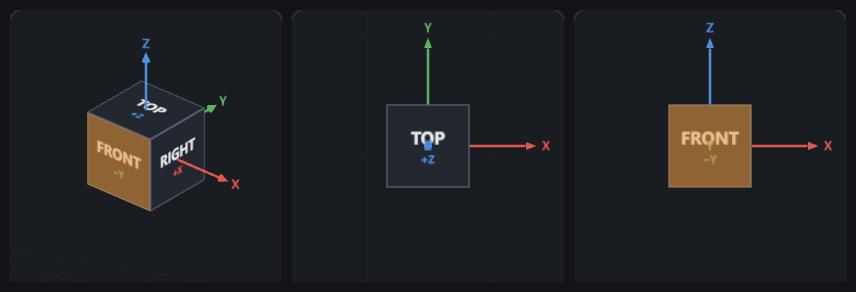
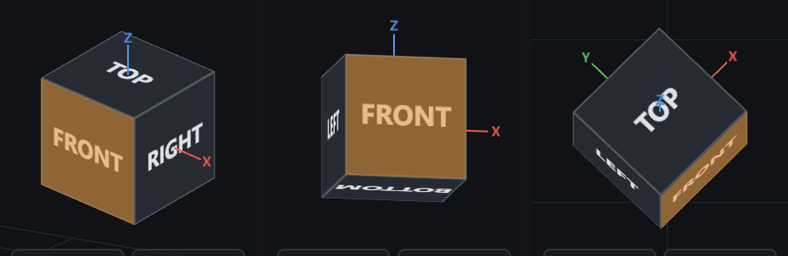
Видовой куб как в CAD: имя грани крупно, скос 11°, тонкие оси

diff --git a/web/app.js b/web/app.js
@@ -1120,7 +1120,7 @@ vcRenderer.setClearAlpha(0);
 vcHost.append(vcRenderer.domElement);
 
 const vcScene = new THREE.Scene();
-const vcCam = new THREE.OrthographicCamera(-2.3, 2.3, 2.3, -2.3, 0.1, 40);
+const vcCam = new THREE.OrthographicCamera(-1.42, 1.42, 1.42, -1.42, 0.1, 40);
 
 /* шесть граней: подпись словами + координата оси, как в CAD-кубиках */
 const VC_SIDES = [
@@ -1133,24 +1133,21 @@ const VC_SIDES = [
 ];
 const VC_AXIS_COLOR = { X: '#e2574c', Y: '#59b45f', Z: '#4f8fe0' };
 
-function vcFaceTexture(label, axis) {
+function vcFaceTexture(label) {
   const s = 256;
   const cv = document.createElement('canvas');
   cv.width = cv.height = s;
   const g = cv.getContext('2d');
-  g.fillStyle = '#232830';
+  g.fillStyle = '#262b33';
   g.fillRect(0, 0, s, s);
-  g.strokeStyle = 'rgba(140,150,165,.5)';
-  g.lineWidth = 4;
-  g.strokeRect(2, 2, s - 4, s - 4);
+  g.strokeStyle = 'rgba(150,158,172,.42)';     // светлая нитка по ребру, как в CAD-кубике
+  g.lineWidth = 3;
+  g.strokeRect(1.5, 1.5, s - 3, s - 3);
   g.textAlign = 'center';
   g.textBaseline = 'middle';
-  g.fillStyle = '#e6e8eb';
-  g.font = '700 54px "IBM Plex Sans", system-ui, sans-serif';
-  g.fillText(label, s / 2, s / 2 - 20);
-  g.fillStyle = VC_AXIS_COLOR[axis[1]] || '#a3acb6';
-  g.font = '600 38px PlexMono, monospace';
-  g.fillText(axis, s / 2, s / 2 + 44);
+  g.fillStyle = '#dfe3ea';
+  g.font = '700 58px "IBM Plex Sans", system-ui, sans-serif';
+  g.fillText(label, s / 2, s / 2 + 2);
   const t = new THREE.CanvasTexture(cv);
   t.colorSpace = THREE.SRGBColorSpace;
   t.anisotropy = 4;
@@ -1160,7 +1157,7 @@ function vcFaceTexture(label, axis) {
 /* тёмная подложка: швы между плитками читаются как рёбра куба */
 const vcCore = new THREE.Mesh(
   new THREE.BoxGeometry(VC_S * 0.986, VC_S * 0.986, VC_S * 0.986),
-  new THREE.MeshBasicMaterial({ color: 0x191c21 }));
+  new THREE.MeshBasicMaterial({ color: 0x1d2127 }));
 vcCore.raycast = () => {};
 vcScene.add(vcCore);
 
@@ -1171,7 +1168,7 @@ for (const def of VC_SIDES) {
   const right = new THREE.Vector3().crossVectors(up, n).normalize();   // right × up = n
   const plane = new THREE.Mesh(
     new THREE.PlaneGeometry(VC_S, VC_S),
-    new THREE.MeshBasicMaterial({ map: vcFaceTexture(def.label, def.axis) }));
+    new THREE.MeshBasicMaterial({ map: vcFaceTexture(def.label) }));
   plane.quaternion.setFromRotationMatrix(new THREE.Matrix4().makeBasis(right, up, n));
   plane.position.copy(n).multiplyScalar(VC_H);
   plane.userData = { kind: 'face', n: def.n, label: def.label };
@@ -1252,7 +1249,7 @@ const VC_AXES = [
   { v: [0, 1, 0], color: 0x59b45f, label: 'Y' },
   { v: [0, 0, 1], color: 0x4f8fe0, label: 'Z' },
 ];
-const VC_AX_LEN = 1.95;
+const VC_AX_LEN = 1.16;
 const vcAxisHits = [];
 function vcAxisLabel(text, color) {
   const s = 64;
@@ -1266,35 +1263,47 @@ function vcAxisLabel(text, color) {
   g.fillText(text, s / 2, s / 2 + 2);
   const t = new THREE.CanvasTexture(cv);
   t.colorSpace = THREE.SRGBColorSpace;
-  const sp = new THREE.Sprite(new THREE.SpriteMaterial({ map: t, depthTest: false, transparent: true }));
+  const sp = new THREE.Sprite(new THREE.SpriteMaterial({ map: t, transparent: true }));
   sp.scale.set(0.34, 0.34, 1);
   return sp;
 }
 for (const a of VC_AXES) {
   const dir = new THREE.Vector3(a.v[0], a.v[1], a.v[2]);
   const mat = new THREE.MeshBasicMaterial({ color: a.color });
-  const shaft = new THREE.Mesh(new THREE.CylinderGeometry(0.022, 0.022, VC_AX_LEN - 0.2, 8), mat);
+  // тонкая нитка, как в CAD: без стрелки-конуса, буква на конце сама показывает направление
+  const shaft = new THREE.Mesh(new THREE.CylinderGeometry(0.011, 0.011, VC_AX_LEN, 8), mat);
   shaft.quaternion.setFromUnitVectors(new THREE.Vector3(0, 1, 0), dir);
-  shaft.position.copy(dir).multiplyScalar((VC_AX_LEN - 0.2) / 2);
+  shaft.position.copy(dir).multiplyScalar(VC_AX_LEN / 2);
   shaft.userData = { kind: 'axis', n: a.v, label: a.label };
-  const head = new THREE.Mesh(new THREE.ConeGeometry(0.075, 0.19, 10), mat);
-  head.quaternion.copy(shaft.quaternion);
-  head.position.copy(dir).multiplyScalar(VC_AX_LEN - 0.095);
-  head.userData = shaft.userData;
   const sp = vcAxisLabel(a.label, a.color);
-  sp.position.copy(dir).multiplyScalar(VC_AX_LEN + 0.17);
+  sp.position.copy(dir).multiplyScalar(VC_AX_LEN + 0.1);
+  sp.scale.set(0.24, 0.24, 1);
   sp.raycast = () => {};
-  vcScene.add(shaft, head, sp);
-  vcAxisHits.push(shaft, head);
+  vcScene.add(shaft, sp);
+  vcAxisHits.push(shaft);
 }
 
 const vcRay = new THREE.Raycaster();
 const vcPointer = new THREE.Vector2();
 
+/* камера сцены смотрит строго по оси — кубик от этого становится плоским квадратом.
+   Поэтому сам кубик отворачиваем на 11°: видна грань и две узкие полосы соседних, как в CAD. */
+const VC_TILT = THREE.MathUtils.degToRad(11);
+function vcTiltDir(dir) {
+  const ax = Math.abs(dir.x), ay = Math.abs(dir.y), az = Math.abs(dir.z);
+  if (Math.max(ax, ay, az) < 0.985) return dir;          // камера уже под углом
+  const up = az > 0.985 ? new THREE.Vector3(0, 1, 0) : new THREE.Vector3(0, 0, 1);
+  const right = new THREE.Vector3().crossVectors(up, dir).normalize();
+  return dir.clone()
+    .applyQuaternion(new THREE.Quaternion().setFromAxisAngle(up, -VC_TILT))
+    .applyQuaternion(new THREE.Quaternion().setFromAxisAngle(right, VC_TILT));
+}
+
 function vcSync() {
   const off = new THREE.Vector3().subVectors(camera.position, controls.target);
   if (off.lengthSq() < 1e-9) return;
-  off.normalize().multiplyScalar(6);
+  off.copy(vcTiltDir(off.normalize()));
+  off.multiplyScalar(6);
   vcCam.position.copy(off);
   // при взгляде вдоль Z (сверху/снизу) опорный «верх» надо менять, иначе кадр выворачивает
   vcCam.up.set(0, 0, 1);
@@ -1789,7 +1798,7 @@ async function selftest() {
     if (!out.viewcube) out.errors.push('видовой куб не отрисовался');
     vcSync();
     const vr = vcCanvas.getBoundingClientRect();
-    out.cubeCounts = { faces: vcFaces.length, edges: vcEdges.length, corners: vcCorners.length, axes: vcAxisHits.length / 2 };
+    out.cubeCounts = { faces: vcFaces.length, edges: vcEdges.length, corners: vcCorners.length, axes: vcAxisHits.length };
     if (out.cubeCounts.faces !== 6) out.errors.push('граней у куба не шесть');
     if (out.cubeCounts.edges !== 12) out.errors.push('рёбер у куба не двенадцать');
     if (out.cubeCounts.corners !== 8) out.errors.push('углов у куба не восемь');

diff --git a/web/style.css b/web/style.css
@@ -236,17 +236,16 @@ button { cursor: pointer; }
 .tool.exit:hover { color: var(--err); }
 
 #viewcube {
-  position: absolute; right: 12px; top: 10px; display: flex; flex-direction: column; gap: 4px;
-  align-items: center; padding: 4px; border-radius: 8px;
-  background: rgba(27,30,35,.86); border: 1px solid var(--line2);
+  position: absolute; right: 12px; top: 6px; display: flex; flex-direction: column; gap: 2px;
+  align-items: center; padding: 0; border-radius: 8px;
 }
 #vc-host { width: 128px; height: 128px; cursor: grab; }
 #vc-host:active { cursor: grabbing; }
 #vc-host canvas { display: block; width: 128px; height: 128px; }
 .vc-rail { display: flex; gap: 4px; width: 100%; }
 .vc-rail button {
-  flex: 1 1 0; height: 20px; border-radius: 4px; font-size: 10px; padding: 0;
-  background: var(--s3); border: 1px solid var(--line2); color: var(--tx3);
+  flex: 1 1 0; height: 19px; border-radius: 4px; font-size: 10px; padding: 0;
+  background: rgba(27,30,35,.72); border: 1px solid var(--line2); color: var(--tx3);
   font-family: PlexMono, monospace;
 }
 .vc-rail button:hover { background: var(--s4); color: var(--acc); }

diff --git a/README.md b/README.md
@@ -24,7 +24,7 @@
 |---|---|
 | открыть сетку | «Открыть» (`Ctrl+O`), имя файла в шапке или перетащить STL в окно — второй файл становится эталоном |
 | навигация | ЛКМ — поворот, колесо — зум, ПКМ/Shift — сдвиг, `F` — вписать, `1` — изо, кнопка облёта — автовращение |
-| вид по грани | видовой кубик справа сверху: шесть подписанных граней `FRONT/BACK/LEFT/RIGHT/TOP/BOTTOM`, рядом цветные оси X/Y/Z; клик по грани ставит камеру строго по её нормали (теле-объектив 8°, чтобы деталь заполняла кадр) |
+| вид по грани | видовой кубик справа сверху: шесть граней с подписью `FRONT/BACK/LEFT/RIGHT/TOP/BOTTOM`, рядом оси X/Y/Z (красная/зелёная/синяя); на виде по нормали кубик повёрнут на 11°, поэтому видны ещё две соседние грани — как в Fusion, а не плоский квадрат; клик по грани ставит камеру строго по её нормали (теле-объектив 8°, деталь заполняет кадр) |
 | вид по ребру и углу | наводишь — элемент подсвечивается оранжевым: клик по ребру даёт диагональ между двумя гранями, по углу — изометрию и сразу три стороны; «Изо» возвращает обзор |
 | разбор после загрузки | приходит сам: грани, тела, габарит, объём, площадь, замкнутость — шапка и панель «Слои» |
 | замер | режим `Замер` (`2`), два клика по поверхности — расстояние и разложение по осям, `◎` — подлететь к замеру |
@@ -50,6 +50,8 @@
 
 Граней шесть, рёбер двенадцать, углов восемь — как у настоящего куба: каждая зона кликабельна
 и знает свой вектор камеры, поэтому вид встаёт ровно по нормали без «доводки» мышью.
+Подпись на грани — только её имя, крупно; оси тонкие, буква на конце показывает направление
+(ось, уходящая в экран, прячется за кубом — не мешает читать подписи).
 
 ![гизмо](docs/gizmo.png)
 
